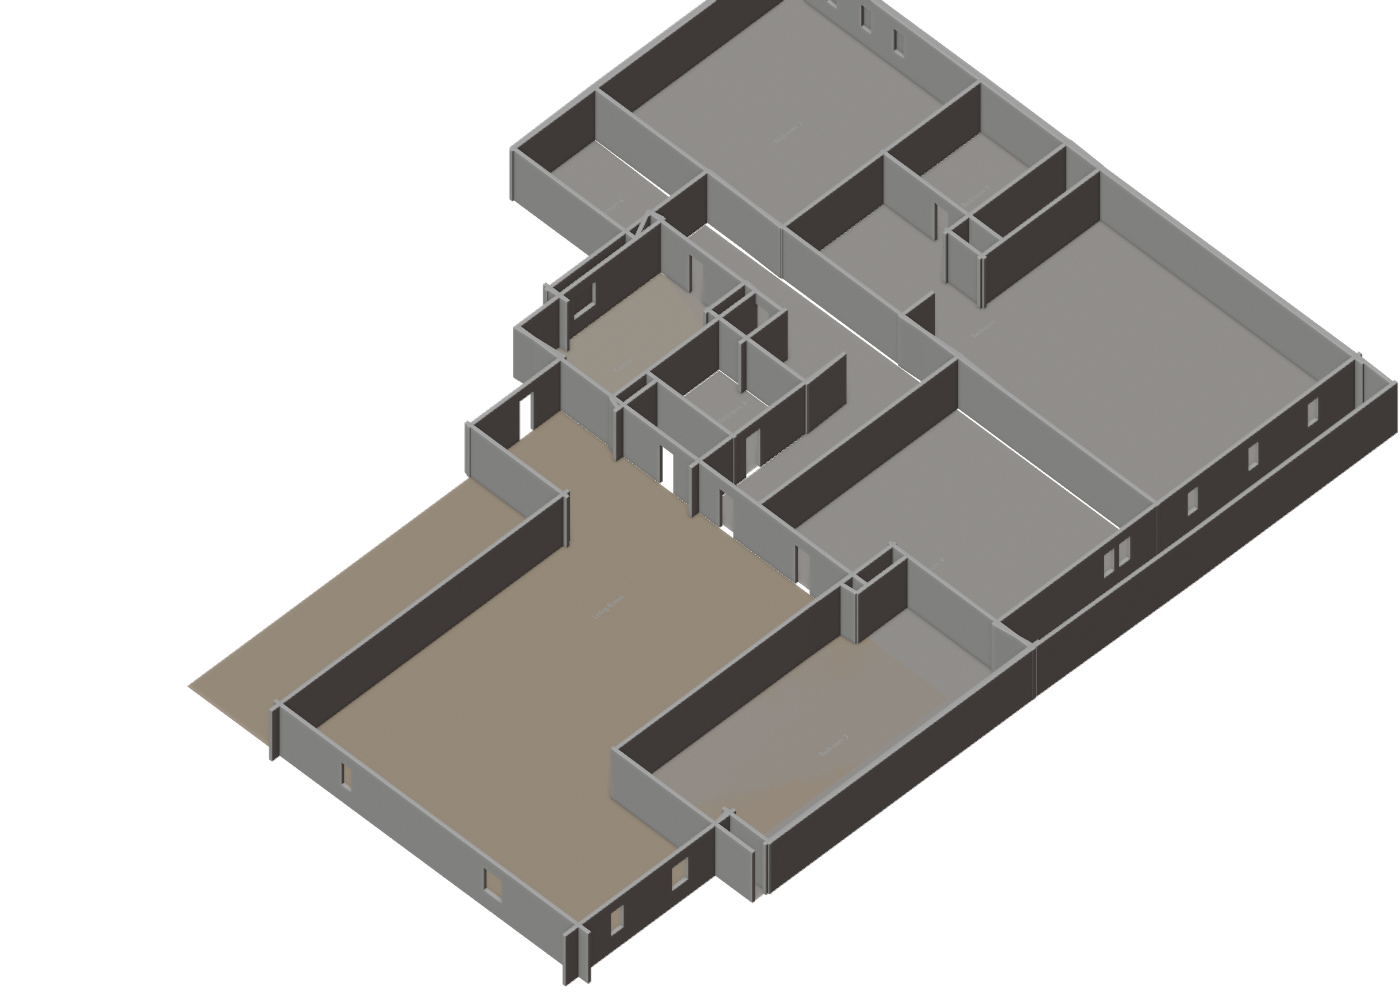
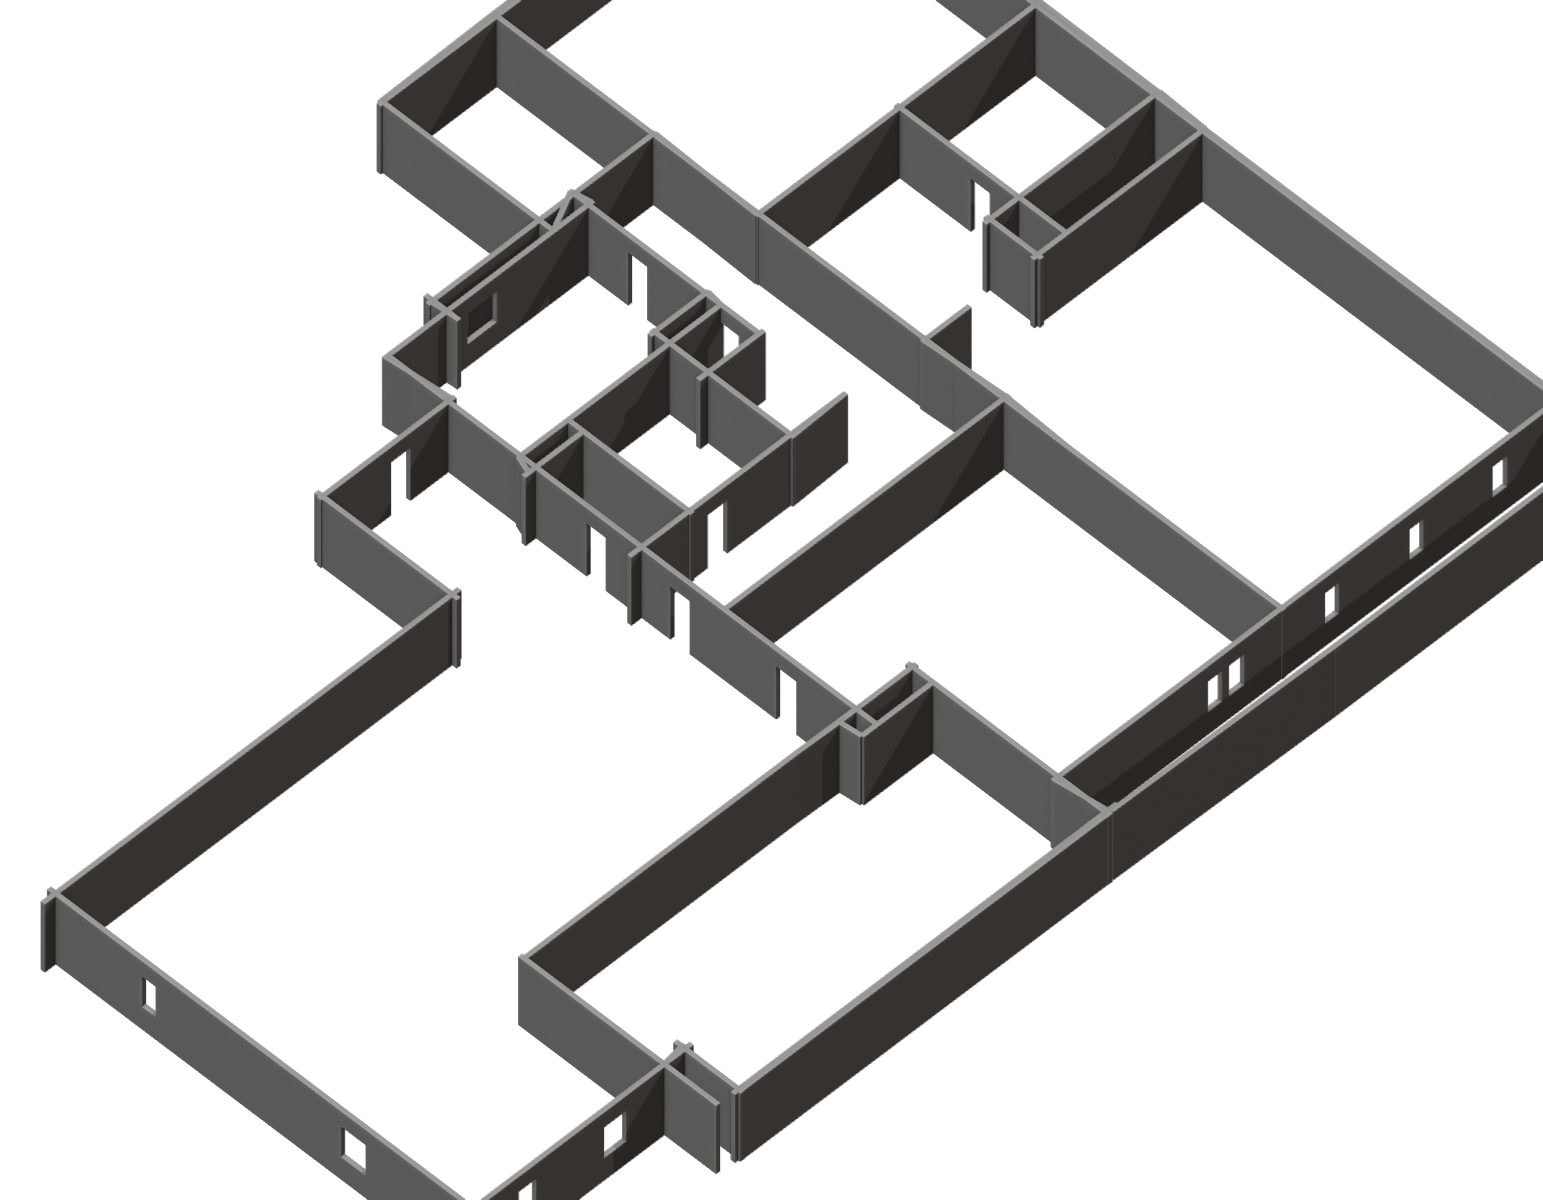
README: replace example images with input plan and clean 3D render

diff --git a/README.md b/README.md
@@ -8,9 +8,9 @@ objects you can edit, render, or export. Everything runs locally on your machine
 Optional "Premium" features (furniture placement, exterior generation, layout critique,
 natural-language edits) use the Claude API with your own key.
 
-| Input plan → detected geometry and labels | Generated 3D model |
+| Input: a listing floor plan | Output: the generated Blender model |
 |---|---|
-| ![overlay](docs/example_overlay.png) | ![3d](docs/example_3d.png) |
+| ![input](docs/example_input.png) | ![3d](docs/example_3d.png) |
 
 ## How it works
 
